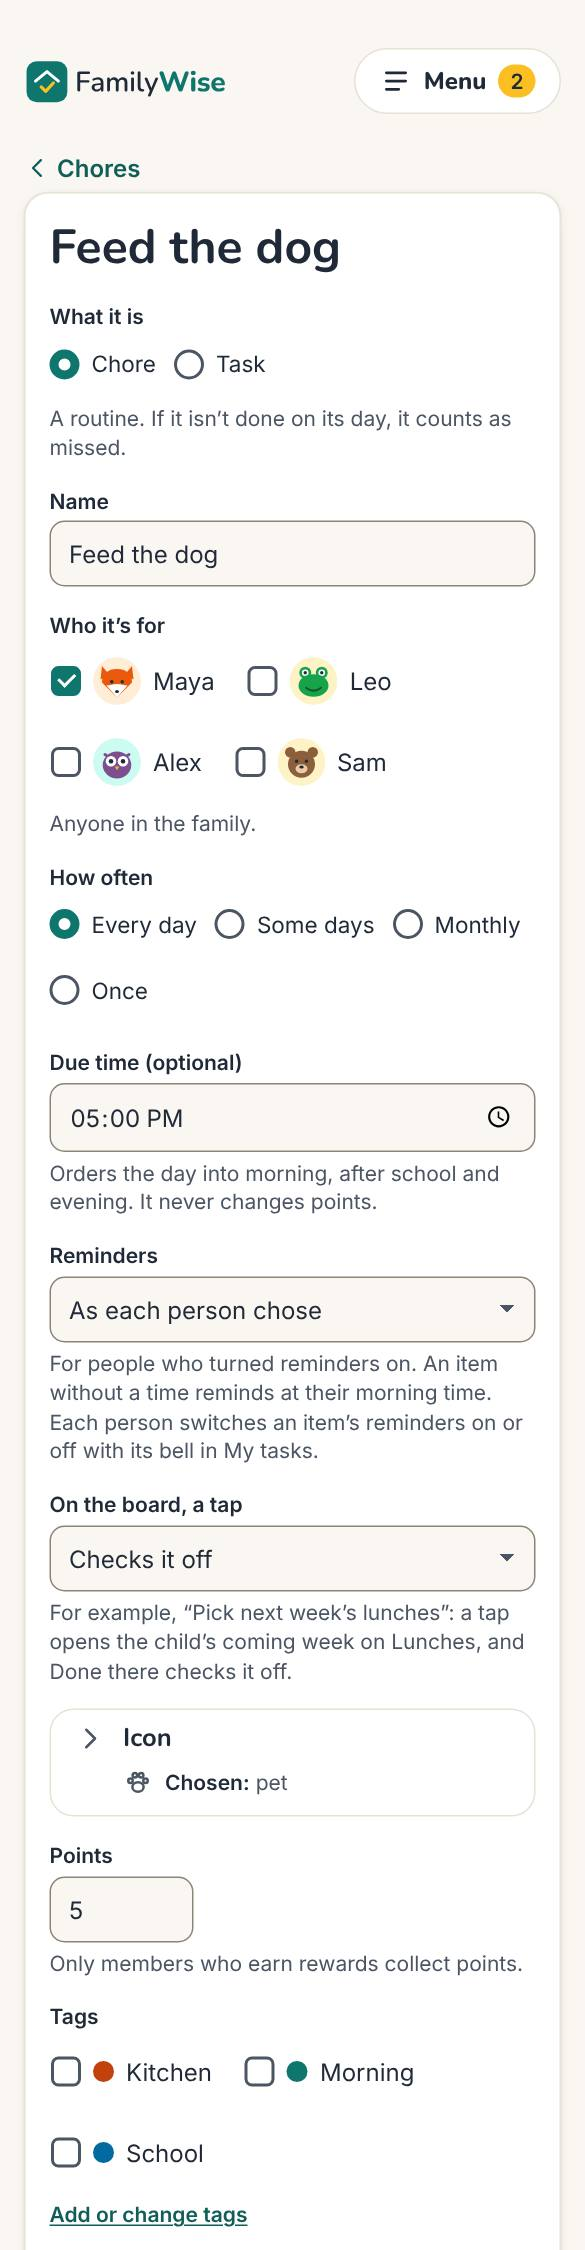
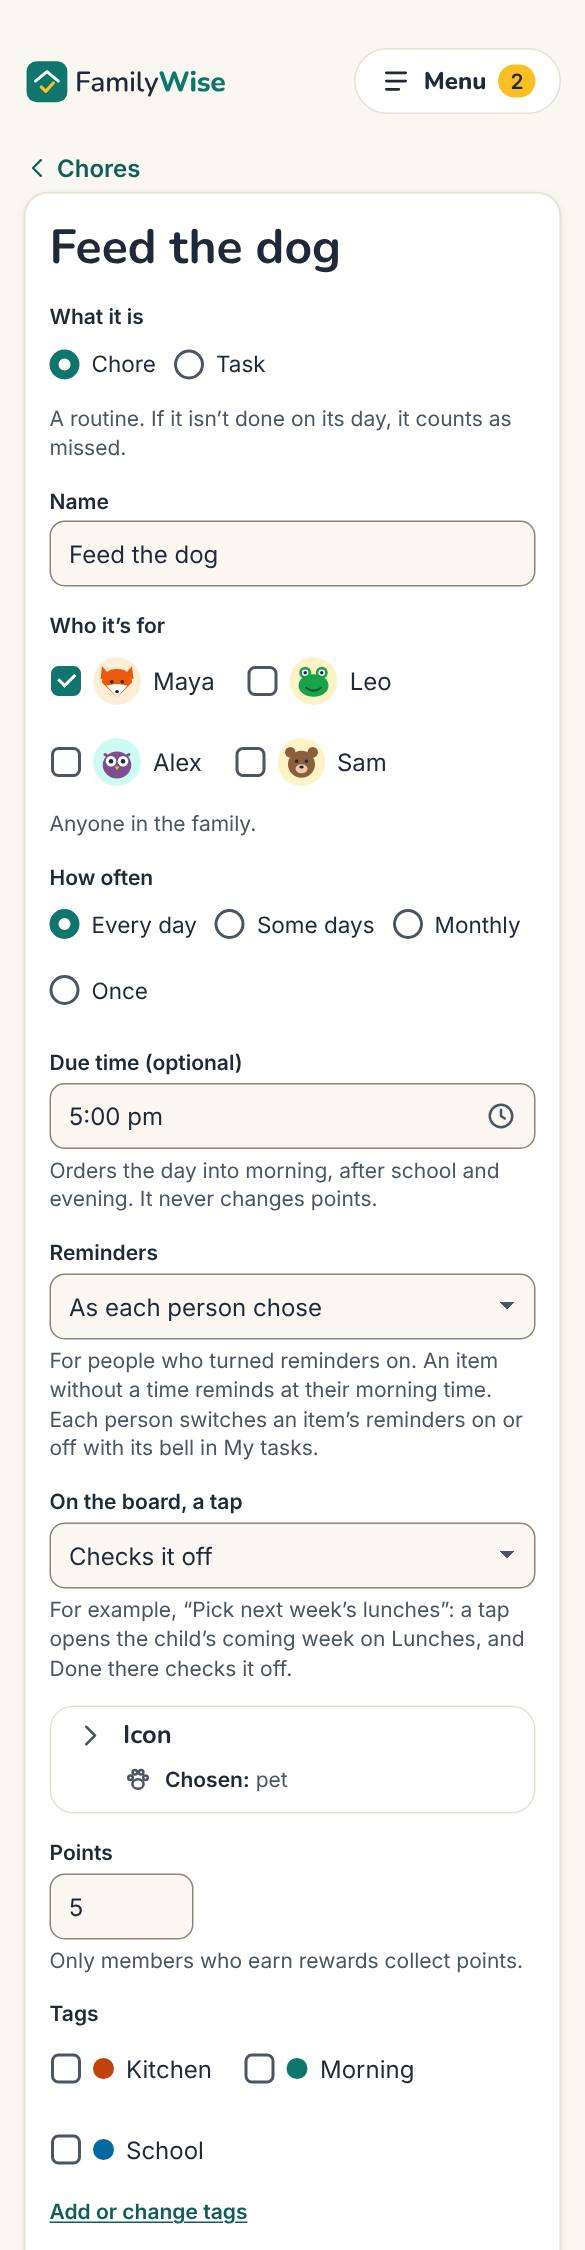
[NFR-16-t] WP-96: the item form's date and time written in words, as the mockups write them
Found by the side-by-side in WebKit: the item form's Date or Due date showed the browser's own
"10/14/2026", and Due time showed "5:00:00 PM". Both now use the app's written-date field
(DatePick, D-128), as the goal form does: "Wed, Oct 14, 2026" and "5:00 pm", over the real field.
The UI test reads the words, and the guide's picture of an item's page is retaken.

Claude-Session: https://claude.ai/code/session_01DmtnyBw1uycMAqzX1NDBFt

diff --git a/apps/web/app/(admin)/admin/chores/chore-form.tsx b/apps/web/app/(admin)/admin/chores/chore-form.tsx
@@ -4,6 +4,7 @@ import {
   Avatar,
   Banner,
   Button,
+  DatePick,
   Fold,
   Icon,
   IconPicker,
@@ -104,6 +105,11 @@ export function ChoreForm({
     assignment: Boolean(initial),
   });
   const s = initial?.schedule;
+  // [NFR-16][D-128] The date and the time written as the mockups write them (DatePick).
+  const [firstDate] = useState(s?.freq === 'once' ? s.on_date : today);
+  const [onDate, setOnDate] = useState(firstDate);
+  const [firstTime] = useState(initial?.dueTime ?? '');
+  const [dueTime, setDueTime] = useState(firstTime);
 
   function chooseKind(next: Kind) {
     setKind(next);
@@ -262,30 +268,39 @@ export function ChoreForm({
           </label>
         ) : null}
         {freq === 'once' ? (
-          <label className="fw-field">
-            <span className="fw-field__label">{kind === 'task' ? 'Due date' : 'Date'}</span>
-            <input
-              className="fw-input"
+          <div className="fw-field">
+            <span className="fw-field__label" aria-hidden="true">
+              {kind === 'task' ? 'Due date' : 'Date'}
+            </span>
+            <DatePick
               type="date"
               name="onDate"
-              defaultValue={s?.freq === 'once' ? s.on_date : today}
+              label={kind === 'task' ? 'Due date' : 'Date'}
+              value={onDate}
+              initial={firstDate}
+              onValue={setOnDate}
             />
-          </label>
+          </div>
         ) : null}
       </fieldset>
 
-      <label className="fw-field">
-        <span className="fw-field__label">Due time (optional)</span>
-        <input
-          className="fw-input"
+      <div className="fw-field">
+        <span className="fw-field__label" aria-hidden="true">
+          Due time (optional)
+        </span>
+        <DatePick
           type="time"
           name="dueTime"
-          defaultValue={initial?.dueTime ?? ''}
+          label="Due time (optional)"
+          value={dueTime}
+          initial={firstTime}
+          onValue={setDueTime}
+          empty="Anytime"
         />
         <span className="fw-field__help">
           Orders the day into morning, after school and evening. It never changes points.
         </span>
-      </label>
+      </div>
 
       <label className="fw-field">
         <span className="fw-field__label">Reminders</span>

diff --git a/e2e/ui/chores.spec.ts b/e2e/ui/chores.spec.ts
@@ -398,6 +398,8 @@ test.describe('An item’s page, Duplicate, the Meal library and Tags', () => {
     await expect(form.getByRole('checkbox', { name: 'Maya', exact: true })).toBeChecked();
     await expect(form.getByRole('checkbox', { name: 'Leo', exact: true })).toBeChecked();
     await expect(form.getByRole('textbox', { name: /^Points/ })).toHaveValue('10');
+    // [NFR-16] The time written as the mockups write it, over the real time field (D-128).
+    await expect(form.locator('.fw-pick__words')).toHaveText('4:00 pm');
     await expect(form).toContainText('The copy starts fresh.');
     await expect(form.getByRole('button', { name: 'Save', exact: true })).toBeVisible();
     await fits(page);
@@ -407,6 +409,7 @@ test.describe('An item’s page, Duplicate, the Meal library and Tags', () => {
     );
     await expect(page.getByRole('textbox', { name: 'Name' })).toHaveValue('Clean out the garage');
     await expect(page.getByLabel('Date', { exact: true })).toHaveValue('2026-10-17');
+    await expect(page.locator('.fw-pick__words').first()).toHaveText('Sat, Oct 17, 2026');
   });
 
   test('[NFR-16-t][MEAL-25-h] the Meal library: a meal a row with ⋯ (Edit, Duplicate, Archive); Duplicate opens Add a meal filled in', async ({

diff --git a/docs/00-README.md b/docs/00-README.md
@@ -163,7 +163,7 @@ Source of truth for IDs is `04`. CI runs `python3 docs/check_traceability.py --d
 | D-138 | **How the grocery list works, from its approved mockup (WP-103 to WP-107), 18 October, confirmed by the owner the same day.** Added at the owner's request: the planner session asked for the grocery logic and the board and admin mockups ("goes through the smart grocery list logic and does the mockup for the smart grocery list screens (board and admin)"), and in the worker session the owner added: Groceries works with or without the Apple Reminders sync; an item can have a store (Meijer, Kroger, Aldi, Costco, Sam's Club, Walmart, …); the household makes and edits its own categories; one or more items move to another category at once; adding an item suggests its category; a meal's recipe takes web links, photos and PDFs. The owner approved the mockup ([Smart grocery list](https://claude.ai/artifact/T7JhbAyMdpXBvJmW1JXXWU)), its rules, requirements and logic, answering 23 questions one at a time. (1) **FamilyWise's own list first:** Groceries works with no Mac and no Apple Reminders; the sync (WP-103) is an add-on. So WP-104 no longer waits for SPIKE-08 or WP-103: WP-104 first, then SPIKE-08 and WP-103, then WP-105, WP-106, WP-107 (the owner's order, Q23). (2) **An item** holds its name, an amount, its category, an optional store, and why it is on the list (who added it, which meals, who asked); in Apple Reminders the title carries name and amount, the notes the why and a "Store: Costco" line (or a #Costco tag if SPIKE-08 finds tags reachable, Q18). A tick is a buy; a removal is not. Ticked items stay 7 days under **Got recently** with Untick; the history is kept for good (Q3). (3) **Categories and stores are the household's own:** added, renamed, ordered and removed by an admin (a made-up starter set; removing a category moves its items to Other, after asking); one optional store an item (Q17); store chips filter the list in the admin app and on the board; items A to Z inside a category (Q2); categories mirror Apple's sections by name both ways where SPIKE-08 finds that possible, else they live in FamilyWise only (Q1). **Select** moves one or more items to a category, sets their store or removes them at once (Q20). (4) **The suggested category and store** on add: last time's, then the household's own learned words, then a starter list from open data (Open Food Facts' categories), then a small open-source model where it helps, never a paid service; the WP-104 worker measures the open options and brings the choice back to the owner (Q19). (5) **One merge** for every way in: the same name once capitals, plural and amount are set aside; counts and same units add, different units sit side by side, an amount is what to buy (Q5); only open items merge; a duplicate typed in Apple Reminders is folded in and removed there (Q6); "milk" and "milk 2%" are never merged by themselves, the admin app offers **Make it one** (Q4). (6) **Meals → groceries:** "We usually have it" starts unticked (Q7); no scaling; a meal already added that week starts unticked; a meal taken off the plan takes its share off the list: an item only it needed and not yet ticked is removed, a merged item loses that meal's amount and reason (Q8). **Recipes** (in WP-105, Q23): a link, photos and PDFs, up to 10 MB each; ingredients read from a link's published recipe data, a PDF's text, or a photo by free open-source text reading on the device, always for the admin to check (Q21); the board's Meals opens a meal's recipe full screen, read-only (Q22). (7) **Staples:** 4 buys at a steady gap, suggested a day early (two for gaps over a week), stopped after 3 gaps with no buy; Not now hides one gap; Don't suggest until Suggest again (Q9); on the admin app's Groceries only (Q10). (8) **Children's asks:** face, then 11 picture tiles or the board's own keyboard; an adult's ask never waits (Q11); the parent OK is set for each child, on by default; at most 5 waiting each; Call off; "Not this time" and "Got it!" until the day ends (Q12). (9) **The sync's set-up** sits apart at the foot of Groceries (Q15): Connect the Mac, the late warning's interval chosen there (2 min, 10 min, 30 min or 1 hour, 10 min to start, Q13), Disconnect, each child's OK. (10) The add field stays open at the top of Groceries, an exception to D-120 for this page (Q14); no Groceries card on the board's Home now (Q16). Every element SPIKE-08 settles has a drawn fallback (S8·1 to S8·8 in the mockup). |
 | D-139 | **Two backlog items in one branch and one pull request (WP-104 and WP-105), 18 October, for the owner to confirm.** Added at the owner's request in the planner session, to try packaging items that make sense to develop together, built logically, surgically and precisely. For this pair: one worker, one branch, one pull request, one approval, one merge and one deploy, and both items marked Done together. Any later pairing is the owner's to name; one branch and one PR per item stays the rule otherwise. What keeps it reviewable: the build order is written in the pull request as thin vertical slices before any code, each slice ending green (tests, lint, typecheck) in its own commit named with its requirement IDs; each item keeps its own section, test cases and As-built line in `05` and its own row in `04` §I; one side-by-side covers both items' screens; the squash commit names both items. |
 | D-140 | **How Groceries suggests a new item's category (WP-104), 18 October, chosen by the owner the same day.** The open options were measured first on 200 made-up items, as D-138 (4) asked. Chosen, option A: after the item's last category and the household's own learned words, a starter list built from Open Food Facts' category taxonomy (ODbL, credited in the code) with a short made-up list of household things, 5,928 names, about 29 KB once compressed, 84.5% placed right, no model and no paid service; "frozen" and "canned" in a name send it to Frozen and the Pantry. Not chosen: a small open-source model in the browser on top (90.5%, but 30 to 41 MB on each device), and the models alone (60 to 66%). Every move the household makes teaches its own words, so the list gets better with use. |
-| D-141 | **Chores in four sections, as built (WP-96), 18 October, for the owner to confirm.** Built from the WP-96 mockup the owner approved on 17 October with its eleven answers (D-132), and the fold audit's item page (D-120). Claude Code's choices, for the owner to confirm: (1) A one-time item is **Completed** once every occurrence on its own date is over: done or approved, skipped (marked **Skipped**), or for a chore missed; one checked off and waiting for a parent's OK stays in **Scheduled**; one more than two weeks ahead, not planned yet, is **Scheduled** under **Later**. (2) **This week** ends on the last day of the household's own week (Family options' week start), and Completed's day is the day its last occurrence was finished, in the household's time zone. (3) Do again's quick dates are **Tomorrow**, the first Saturday after tomorrow, and **In a week**; a date already offered is offered once (on a Saturday, the next Saturday is **In a week**); the sheet starts on the Saturday, as the mockup draws it. (4) Do again copies everything but the date: the people (leaving out anyone archived since), points, time, icon, approval, days, lunch days, reminders, what a tap on the board opens, privacy and the active tags; the admin who adds it is its creator. Duplicate fills the form the same way, and only the copy's name changes. (5) Archive from ⋯ comes back to the page as it was (its chips and filters kept), with **Archived** open and "Archived Feed the dog. It's under Archived."; Restore comes back with "Restored …". (6) The page's filters live in its address (`who`, `tag`, `kind`, `when`), so a filtered page can be bookmarked and Tags' "4 items" link still opens Chores on that tag; the old `person=` link still works, and `status=` (Show) is gone with the Archived section. (7) A recurring row no longer says when it is next due ("Next: Today"), as the mockup draws it; a recurring task left open still says "Overdue since" first. (8) A meal's row keeps how many ingredients it has (WP-105), which the mockup predates; its name opens its form in place, as **Edit** does. (9) Pressing and holding opens the menu after half a second; a press that moves more than 10 px is a scroll and opens nothing; a right click opens it too. (10) Safari on a Mac is checked in WebKit, Safari's engine, at 1280 px (a `mac` project in the UI suite, and the side-by-side's laptop pictures); Safari's own window and its link preview are not drawn by WebKit there, so the link preview itself is checked by what stops it (no callout, no text selection, the row's own context menu), not by Safari. (11) The owner's answer (18 October, "copy all"): a meal's Duplicate copies every field, its ingredients, recipe link and steps, and its photos and PDFs, each copied in storage as a file of the copy's own once **Add meal** is tapped, so taking one off the copy never touches the original; the copy's form lists them and offers none for removal; one that doesn't copy is named after the save. |
+| D-141 | **Chores in four sections, as built (WP-96), 18 October, for the owner to confirm.** Built from the WP-96 mockup the owner approved on 17 October with its eleven answers (D-132), and the fold audit's item page (D-120). Claude Code's choices, for the owner to confirm: (1) A one-time item is **Completed** once every occurrence on its own date is over: done or approved, skipped (marked **Skipped**), or for a chore missed; one checked off and waiting for a parent's OK stays in **Scheduled**; one more than two weeks ahead, not planned yet, is **Scheduled** under **Later**. (2) **This week** ends on the last day of the household's own week (Family options' week start), and Completed's day is the day its last occurrence was finished, in the household's time zone. (3) Do again's quick dates are **Tomorrow**, the first Saturday after tomorrow, and **In a week**; a date already offered is offered once (on a Saturday, the next Saturday is **In a week**); the sheet starts on the Saturday, as the mockup draws it. (4) Do again copies everything but the date: the people (leaving out anyone archived since), points, time, icon, approval, days, lunch days, reminders, what a tap on the board opens, privacy and the active tags; the admin who adds it is its creator. Duplicate fills the form the same way, and only the copy's name changes. (5) Archive from ⋯ comes back to the page as it was (its chips and filters kept), with **Archived** open and "Archived Feed the dog. It's under Archived."; Restore comes back with "Restored …". (6) The page's filters live in its address (`who`, `tag`, `kind`, `when`), so a filtered page can be bookmarked and Tags' "4 items" link still opens Chores on that tag; the old `person=` link still works, and `status=` (Show) is gone with the Archived section. (7) A recurring row no longer says when it is next due ("Next: Today"), as the mockup draws it; a recurring task left open still says "Overdue since" first. (8) A meal's row keeps how many ingredients it has (WP-105), which the mockup predates; its name opens its form in place, as **Edit** does. (9) Pressing and holding opens the menu after half a second; a press that moves more than 10 px is a scroll and opens nothing; a right click opens it too. (10) Safari on a Mac is checked in WebKit, Safari's engine, at 1280 px (a `mac` project in the UI suite, and the side-by-side's laptop pictures); Safari's own window and its link preview are not drawn by WebKit there, so the link preview itself is checked by what stops it (no callout, no text selection, the row's own context menu), not by Safari. (11) The owner's answer (18 October, "copy all"): a meal's Duplicate copies every field, its ingredients, recipe link and steps, and its photos and PDFs, each copied in storage as a file of the copy's own once **Add meal** is tapped, so taking one off the copy never touches the original; the copy's form lists them and offers none for removal; one that doesn't copy is named after the save. (12) Found by the side-by-side in WebKit: the item form's **Date** or **Due date** and its **Due time**, and Do again's **Or a date**, showed the browser's own "10/17/2026" and "4:00:00 PM"; they are now the app's written-date field (D-128), "Sat, Oct 17, 2026" and "4:00 pm", as the goal form's are. |
 
 ## Repo layout
 

diff --git a/docs/05-backlog.md b/docs/05-backlog.md
@@ -1724,7 +1724,7 @@ flowchart LR
 - **The icon picker,** in every form that has one (chores and tasks, rewards, goals, meals, tags): folded to **Chosen:** and the icon, opening to **Find an icon** and the groups. Done with WP-100, which needed it for the goal form's height on a phone; the rest of WP-96 is as written.
 - **Done when:** unit tests on which section an item is in (a one-time item not done, done, missed and each-their-own part done; a recurring item; archived), the date headings across midnight, a week's end and DST, the person chips across every section, More filters' summary, Duplicate's filled form and Do again's new item; pgTAP that Do again adds a new item and leaves the original's completion, points and goal credit unchanged; on the preview, Alex taps Maya's chip and every section shows only Maya's, opens Completed and taps **Show older**, duplicates an item and saves the copy, uses **Do again** on a completed one-time item and finds the new one under its date in Scheduled, then changes an item's icon and saves; on the Meal library, Alex edits, duplicates and archives a meal from ⋯; on Tags, Alex edits and archives a tag from ⋯; the UI suite at 390 and 1280 px in both themes, in WebKit as an iPhone and as Safari on a Mac as well as in Chrome, every fold closed and opened, a ⋯ menu opened, taps after hydration; the side-by-side with the mockup in WebKit at both sizes (D-127).
 
-- **As built (D-141):** migration `20261018132852_do_chore_again.sql` (`do_chore_again()`: a new one-time item from a done one, under the admin's RLS); `apps/web/lib/chore-sections.ts` (`place()`, `headingFor()`, `sections()`, `byHeading()`, `parseChoreFilters()`, `togglePerson()`, `applyFilters()`, `moreFiltersLine()`, `completedCount()`, `rowParts()`, `duplicateOf()`, `doAgainDates()`, `moreOptionsLine()`, `comingUpLine()`, `lastWeekLine()`); the shared row `app/(admin)/admin/hold-row.tsx` (`HoldRow`: ⋯ as a `<details>`, held 500 ms by touch or mouse for the same menu, no callout or text selection, the row's own context menu; it stays inside the screen and closes on a choice, on Escape and on a tap elsewhere, as WP-104's follow-up fixed Groceries' ⋯); Chores' `view.tsx`, `do-again.tsx`, `tag-picker.tsx`, `item-view.tsx`, `new-view.tsx`, the actions `doChoreAgain()` and `setChoreArchived()` (back to the page with its filters), `loadOnceOccurrences()`; the shared `Fold`'s `count`; the Meal library's and Tags' rows; `/dev/chores`; a `mac` project in `e2e/ui.config.ts` (desktop WebKit at 1280 px); the Chores screens in `scripts/screen-shots.mjs`. a meal's Duplicate copies all of it, its photos and PDFs as files of the copy's own (`lib/meal-copy.ts`: `mealCopy()`, `copyRecipeFiles()`; `saveMeal()`'s `copyFrom`). Tests: Vitest `lib/chore-sections.test.ts` (CHR-21-a to CHR-21-f, CHR-22-a, CHR-23-a, NFR-18-y) and `lib/meal-copy.test.ts` (MEAL-25-h); pgTAP `560_do_chore_again.test.sql` (CHR-23-b); UI suite `e2e/ui/chores.spec.ts` (CHR-21-g, CHR-21-h, CHR-23-a, NFR-16-t; in Chrome, as an iPhone in WebKit and as Safari on a Mac in WebKit); e2e `e2e/tests/chore-sections.spec.ts` (CHR-21-i, CHR-22-b, CHR-23-c, NFR-18-z), on its own household. `chores.spec.ts`, `devices.spec.ts` and the UI suite's `meals.spec.ts`, `meal-groceries.spec.ts` and `setup-folds.spec.ts` follow the new rows and folds.
+- **As built (D-141):** migration `20261018132852_do_chore_again.sql` (`do_chore_again()`: a new one-time item from a done one, under the admin's RLS); `apps/web/lib/chore-sections.ts` (`place()`, `headingFor()`, `sections()`, `byHeading()`, `parseChoreFilters()`, `togglePerson()`, `applyFilters()`, `moreFiltersLine()`, `completedCount()`, `rowParts()`, `duplicateOf()`, `doAgainDates()`, `moreOptionsLine()`, `comingUpLine()`, `lastWeekLine()`); the shared row `app/(admin)/admin/hold-row.tsx` (`HoldRow`: ⋯ as a `<details>`, held 500 ms by touch or mouse for the same menu, no callout or text selection, the row's own context menu; it stays inside the screen and closes on a choice, on Escape and on a tap elsewhere, as WP-104's follow-up fixed Groceries' ⋯); Chores' `view.tsx`, `do-again.tsx`, `tag-picker.tsx`, `item-view.tsx`, `new-view.tsx`, the actions `doChoreAgain()` and `setChoreArchived()` (back to the page with its filters), `loadOnceOccurrences()`; the shared `Fold`'s `count`; the item form's date and time, and Do again's date, written in words (`DatePick`, D-128); the Meal library's and Tags' rows; `/dev/chores`; a `mac` project in `e2e/ui.config.ts` (desktop WebKit at 1280 px); the Chores screens in `scripts/screen-shots.mjs`. a meal's Duplicate copies all of it, its photos and PDFs as files of the copy's own (`lib/meal-copy.ts`: `mealCopy()`, `copyRecipeFiles()`; `saveMeal()`'s `copyFrom`). Tests: Vitest `lib/chore-sections.test.ts` (CHR-21-a to CHR-21-f, CHR-22-a, CHR-23-a, NFR-18-y) and `lib/meal-copy.test.ts` (MEAL-25-h); pgTAP `560_do_chore_again.test.sql` (CHR-23-b); UI suite `e2e/ui/chores.spec.ts` (CHR-21-g, CHR-21-h, CHR-23-a, NFR-16-t; in Chrome, as an iPhone in WebKit and as Safari on a Mac in WebKit); e2e `e2e/tests/chore-sections.spec.ts` (CHR-21-i, CHR-22-b, CHR-23-c, NFR-18-z), on its own household. `chores.spec.ts`, `devices.spec.ts` and the UI suite's `meals.spec.ts`, `meal-groceries.spec.ts` and `setup-folds.spec.ts` follow the new rows and folds.
 - **Deferred, as plain facts:** nothing.
 - Test cases:
 
